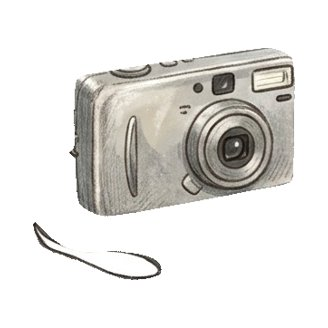
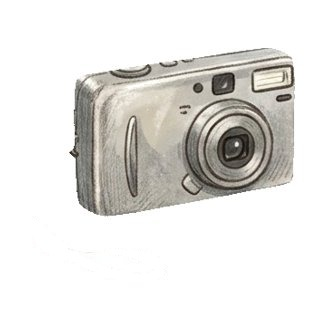
Minho Day 4: the cat in the flowerbed is the yellow cat the lines talk about (own picture and card; Jihoon's cat stays grey); camera picture and card without the loose floating strap; Hangyeol Day 4: his drawing lies on the table next to him (BUILD 1106110048)

Changed region(s): [[0.2439, 0.7927, 0.4878, 0.8537], [0.0915, 0.6707, 0.2439, 0.7927], [0.3354, 0.7622, 0.4573, 0.7927]]

diff --git a/index.html b/index.html
@@ -119,14 +119,14 @@ body,button{word-break:keep-all;overflow-wrap:break-word}
 <div id="fader"></div>
 <script>
 // same address, newest version: if the page this phone has kept is older than the one online, fetch the new one and reopen
-const BUILD='1106103408';
+const BUILD='1106110048';
 try{fetch(location.pathname,{cache:'no-store'}).then(r=>r.text()).then(t=>{const m=t.match(/const BUILD='(\d+)'/);if(m&&m[1]!==BUILD&&sessionStorage.getItem('upd')!==m[1]){sessionStorage.setItem('upd',m[1]);fetch(location.pathname,{cache:'reload'}).then(()=>location.reload())}}).catch(()=>{})}catch(e){}
 </script>
-<script src="i18n.js?v=1106103408"></script>
-<script src="i18n_prologue_v2.js?v=1106103408"></script>
-<script src="day2/i18n_engine.js?v=1106103408"></script>
-<script src="day2/data.js?v=1106103408"></script>
-<script src="day3/data.js?v=1106103408"></script>
+<script src="i18n.js?v=1106110048"></script>
+<script src="i18n_prologue_v2.js?v=1106110048"></script>
+<script src="day2/i18n_engine.js?v=1106110048"></script>
+<script src="day2/data.js?v=1106110048"></script>
+<script src="day3/data.js?v=1106110048"></script>
 <script>
 // ---------- data ----------
 const MW=1672,MH=941,KID=180;
@@ -545,30 +545,30 @@ function pickHero(){const m=document.getElementById('modal'),c=document.getEleme
  c.innerHTML=`<h2>${tr('전학생 반장되기')}</h2><p>${tr('말 한마디 못 하는 전학생,<br>반장 선거에 나가다.')}</p><p style="margin-top:14px">${tr('누구로 할까요?')}</p>${(()=>{const s=loadSave();return s&&s.day>=2&&s.mode===UI+'-'+LANG?`<p><button class="big" id="cont">${tr('{n}일차부터 이어 하기').replace('{n}',s.day)}</button></p>`:''})()}<div class="pick heroes"><button data-h="hero_f"><img src="faces/hero_f_smile.jpg" alt="여자 주인공">${heroName(1)}</button><button data-h="hero_m"><img src="faces/hero_m_smile.jpg" alt="남자 주인공">${heroName(0)}</button></div>`;
  m.classList.add('on');{const cb=document.getElementById('cont');if(cb)cb.onclick=()=>{const s=loadSave();HERO=s.hero;Object.assign(HEART,s.heart||{});(s.found||[]).forEach(k=>FOUND.add(k));HEART_D1={...HEART};chime();(typeof contGame==='function'?contGame(s):startDay(Math.min(s.day,Object.keys(window.D3||{}).length?3:2)))}}c.querySelectorAll('.pick button').forEach(b=>b.onclick=()=>{HERO=b.dataset.h;m.classList.remove('on');chime();bgm('day');load('home_am');say([['nar','','이사 온 다음 날 아침. 아직 풀지 못한 상자들이 쌓여 있다.'],['think','sad','(오늘부터 새 학교야. 여기 말도 아직 서툰데…….)'],['think','smile','({m}한테 인사하고 학교 가야지.)']],morning)})}
 </script>
-<script src="day2/engine.js?v=1106103408"></script>
-<script src="day2/ep_minho.js?v=1106103408"></script>
-<script src="day2/meet.js?v=1106103408"></script>
-<script src="day2/ep_sua.js?v=1106103408"></script>
-<script src="day2/ep_hangyeol.js?v=1106103408"></script>
-<script src="day2/ep_siwoo.js?v=1106103408"></script>
-<script src="day2/ep_haram.js?v=1106103408"></script>
-<script src="day2/ep_jiho.js?v=1106103408"></script>
-<script src="day2/ep_hyeeun.js?v=1106103408"></script>
-<script src="day2/ep_haneul.js?v=1106103408"></script>
-<script src="day2/ep_junho.js?v=1106103408"></script>
-<script src="day2/ep_yuna.js?v=1106103408"></script>
-<script src="day2/ep_yena.js?v=1106103408"></script>
-<script src="day2/ep_haeun.js?v=1106103408"></script>
-<script src="day2/ep_youngmin.js?v=1106103408"></script>
-<script src="day2/ep_seah.js?v=1106103408"></script>
-<script src="day2/ep_jihoon.js?v=1106103408"></script>
-<script src="words_ja_ru.js?v=1106103408"></script>
-<script src="day2/mybag.js?v=1106103408"></script>
-<script src="day2/wordpics.js?v=1106103408"></script>
-<script src="day2/spots.js?v=1106103408"></script>
-<script src="day2/textfit.js?v=1106103408"></script>
-<script src="day2/tester.js?v=1106103408"></script>
-<script src="day2/ux.js?v=1106103408"></script>
+<script src="day2/engine.js?v=1106110048"></script>
+<script src="day2/ep_minho.js?v=1106110048"></script>
+<script src="day2/meet.js?v=1106110048"></script>
+<script src="day2/ep_sua.js?v=1106110048"></script>
+<script src="day2/ep_hangyeol.js?v=1106110048"></script>
+<script src="day2/ep_siwoo.js?v=1106110048"></script>
+<script src="day2/ep_haram.js?v=1106110048"></script>
+<script src="day2/ep_jiho.js?v=1106110048"></script>
+<script src="day2/ep_hyeeun.js?v=1106110048"></script>
+<script src="day2/ep_haneul.js?v=1106110048"></script>
+<script src="day2/ep_junho.js?v=1106110048"></script>
+<script src="day2/ep_yuna.js?v=1106110048"></script>
+<script src="day2/ep_yena.js?v=1106110048"></script>
+<script src="day2/ep_haeun.js?v=1106110048"></script>
+<script src="day2/ep_youngmin.js?v=1106110048"></script>
+<script src="day2/ep_seah.js?v=1106110048"></script>
+<script src="day2/ep_jihoon.js?v=1106110048"></script>
+<script src="words_ja_ru.js?v=1106110048"></script>
+<script src="day2/mybag.js?v=1106110048"></script>
+<script src="day2/wordpics.js?v=1106110048"></script>
+<script src="day2/spots.js?v=1106110048"></script>
+<script src="day2/textfit.js?v=1106110048"></script>
+<script src="day2/tester.js?v=1106110048"></script>
+<script src="day2/ux.js?v=1106110048"></script>
 <script>
 // the goal shows big for a few seconds, then folds into a small pill (tap it to open it again)
 {const g=document.getElementById('goal');let t=null;const big=()=>{g.classList.remove('mini');clearTimeout(t);t=setTimeout(()=>g.classList.add('mini'),4000)};

diff --git a/day2/wordpics.js b/day2/wordpics.js
@@ -6,6 +6,7 @@
 // own picture ({lay:[[k,x,y,w,'picture']]}) counts as well. A picture that is not there yet falls back to the word's own picture,
 // so a scene can name its picture before it is drawn (list: 검수/다시그릴목록_1105.md 「F」).
 const WORDPIC={
+ minho_03:{cat:'cat_yellow'},
  hyeeun_05:{box:'milk_crate'},hyeeun_08:{box:'milk_crate'},minho_12:{box:'milk_crate'},minho_vote:{box:'ballot_box'},
  haram_09:{card:'card_greeting'},seah_08:{card:'cards_play'},
  hangyeol_08:{umbrella:'umbrella_flower'},minho_08:{umbrella:'umbrella_broken'},
@@ -24,7 +25,7 @@ const WORDPIC={
  hangyeol_01:{thread:'thread_floss'},hangyeol_12:{thread:'thread_floss'}};
 // which of those pictures are really there (a list, not a network probe: a missing file would show as a page error).
 // When a new picture from list F is added, put its name here (items = cut-out .png, cards = card .jpg).
-const PIC_ITEM=new Set(['ballot_box', 'cards_play', 'glue_stick', 'milk_crate', 'paper_crumpled', 'water_bottle_pink', 'water_drops']),PIC_CARD=new Set(['ballot_box', 'glue_stick', 'milk_crate', 'paper_crumpled']);
+const PIC_ITEM=new Set(['cat_yellow', 'ballot_box', 'cards_play', 'glue_stick', 'milk_crate', 'paper_crumpled', 'water_bottle_pink', 'water_drops']),PIC_CARD=new Set(['cat_yellow', 'ballot_box', 'glue_stick', 'milk_crate', 'paper_crumpled']);
 let LAYPIC={},LAYPIC_EP=null;const DAYPIC={};
 function picOf(k){if(typeof SCENE_EP==='undefined'||!SCENE_EP)return k;if(LAYPIC_EP!==SCENE_EP){LAYPIC={};LAYPIC_EP=SCENE_EP}
  const w=(WORDPIC[SCENE_EP.scene]||{})[k],v=(w&&PIC_ITEM.has(w)&&w)||LAYPIC[k];if(!v||v===k)return k;DAYPIC[k]=v;PIC_ITEM.add(v);return v}// a laid picture is there (it is on the map)

diff --git a/day2/ep_minho.js b/day2/ep_minho.js
@@ -108,7 +108,7 @@ EP.minho=[
 
 // ■ Day 4 — 고양이를 부르는 말 (3)
 {title:'고양이를 부르는 말',place:'flowerbed',scene:'minho_03',at:[1220,660],
- things:{flowerbed:[['cat',1395,650,80]]},
+ things:{flowerbed:[['cat',1395,650,80,'cat_yellow']]},
  pre:[
   {pic:'minho_03a'},
   ['nar','','자전거 보관대 뒤 화단. 민호가 쪼그려 앉아 꼼짝도 안 하고 있었다. 내가 다가가자 민호가 손가락을 입에 댔다.'],

diff --git a/day2/ep_hangyeol.js b/day2/ep_hangyeol.js
@@ -113,7 +113,7 @@ EP.hangyeol=[
 
 // ■ Day 4 — 결이 (3)
 {title:'결이',scene:'hangyeol_03',place:'library',at:[890,490],flag:{H04_name:{A:1,D:1}},
- things:{library:[['picture',1045,398,50]]},
+ things:{library:[['picture',935,410,50]]},
  pre:[
   {pic:'hangyeol_03'},
   ['nar','','점심시간. 도서관 구석에서 한결이가 혼자 뭔가를 그리고 있었다. 나는 한결이 맞은편에 앉았다.'],
